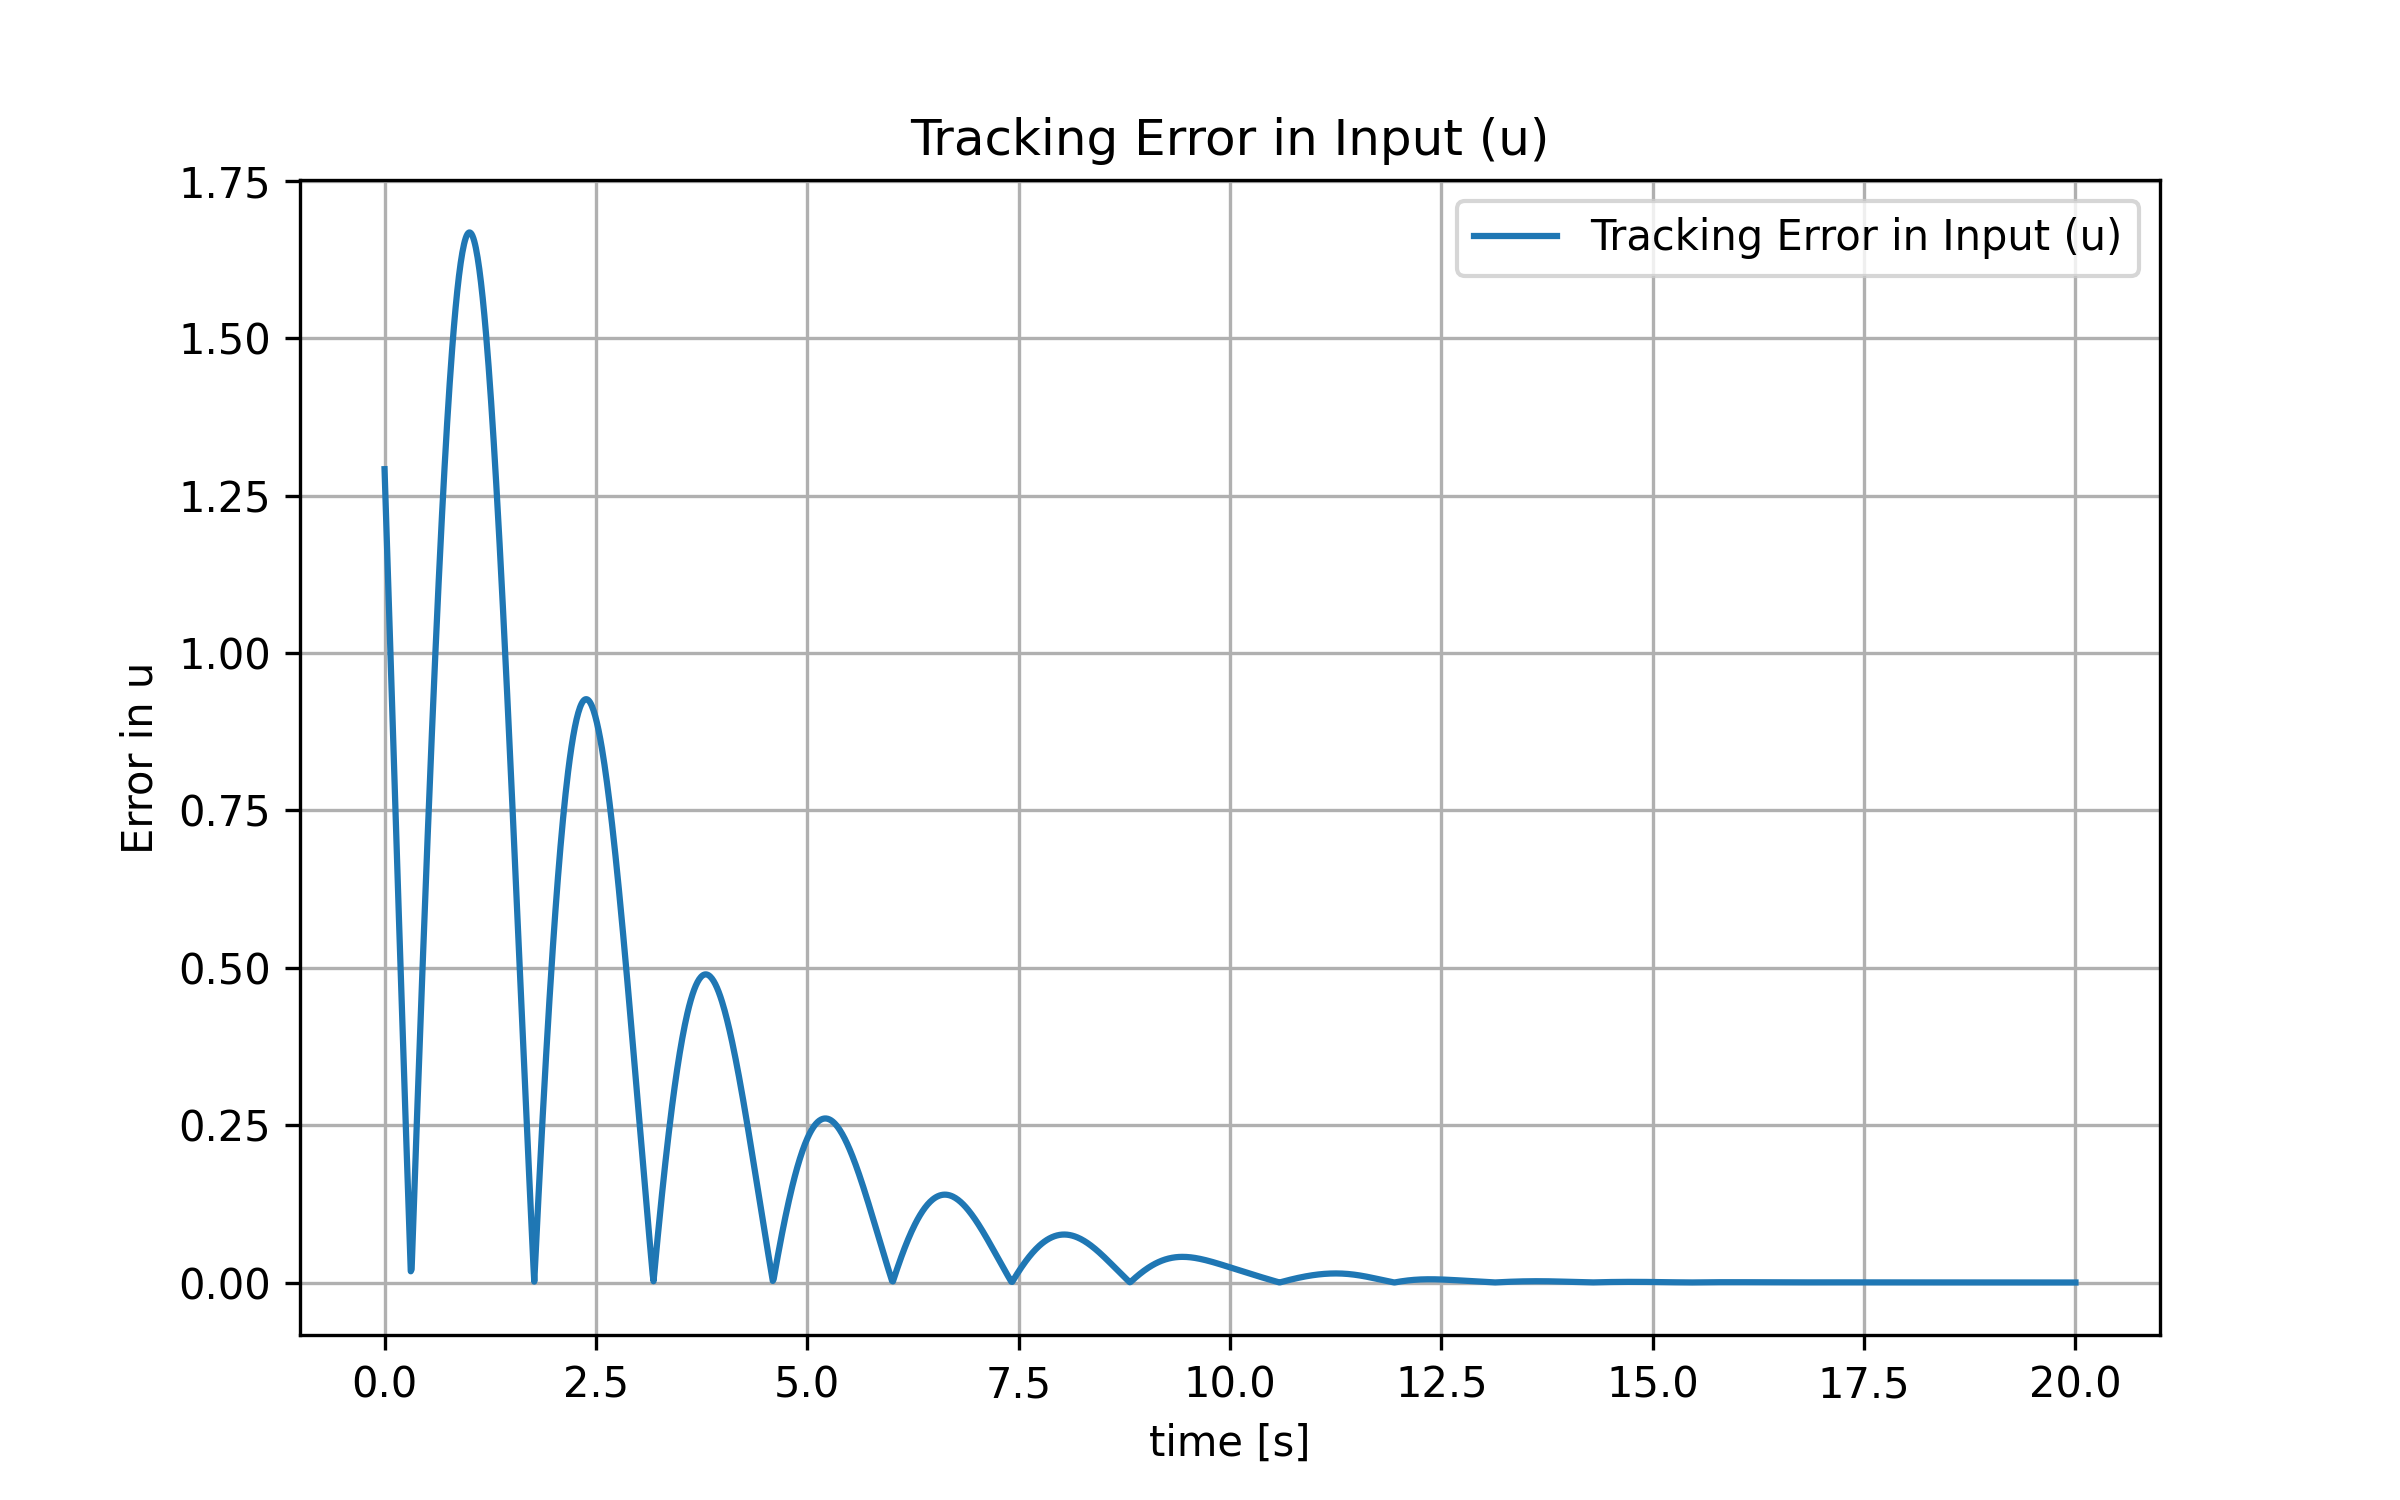
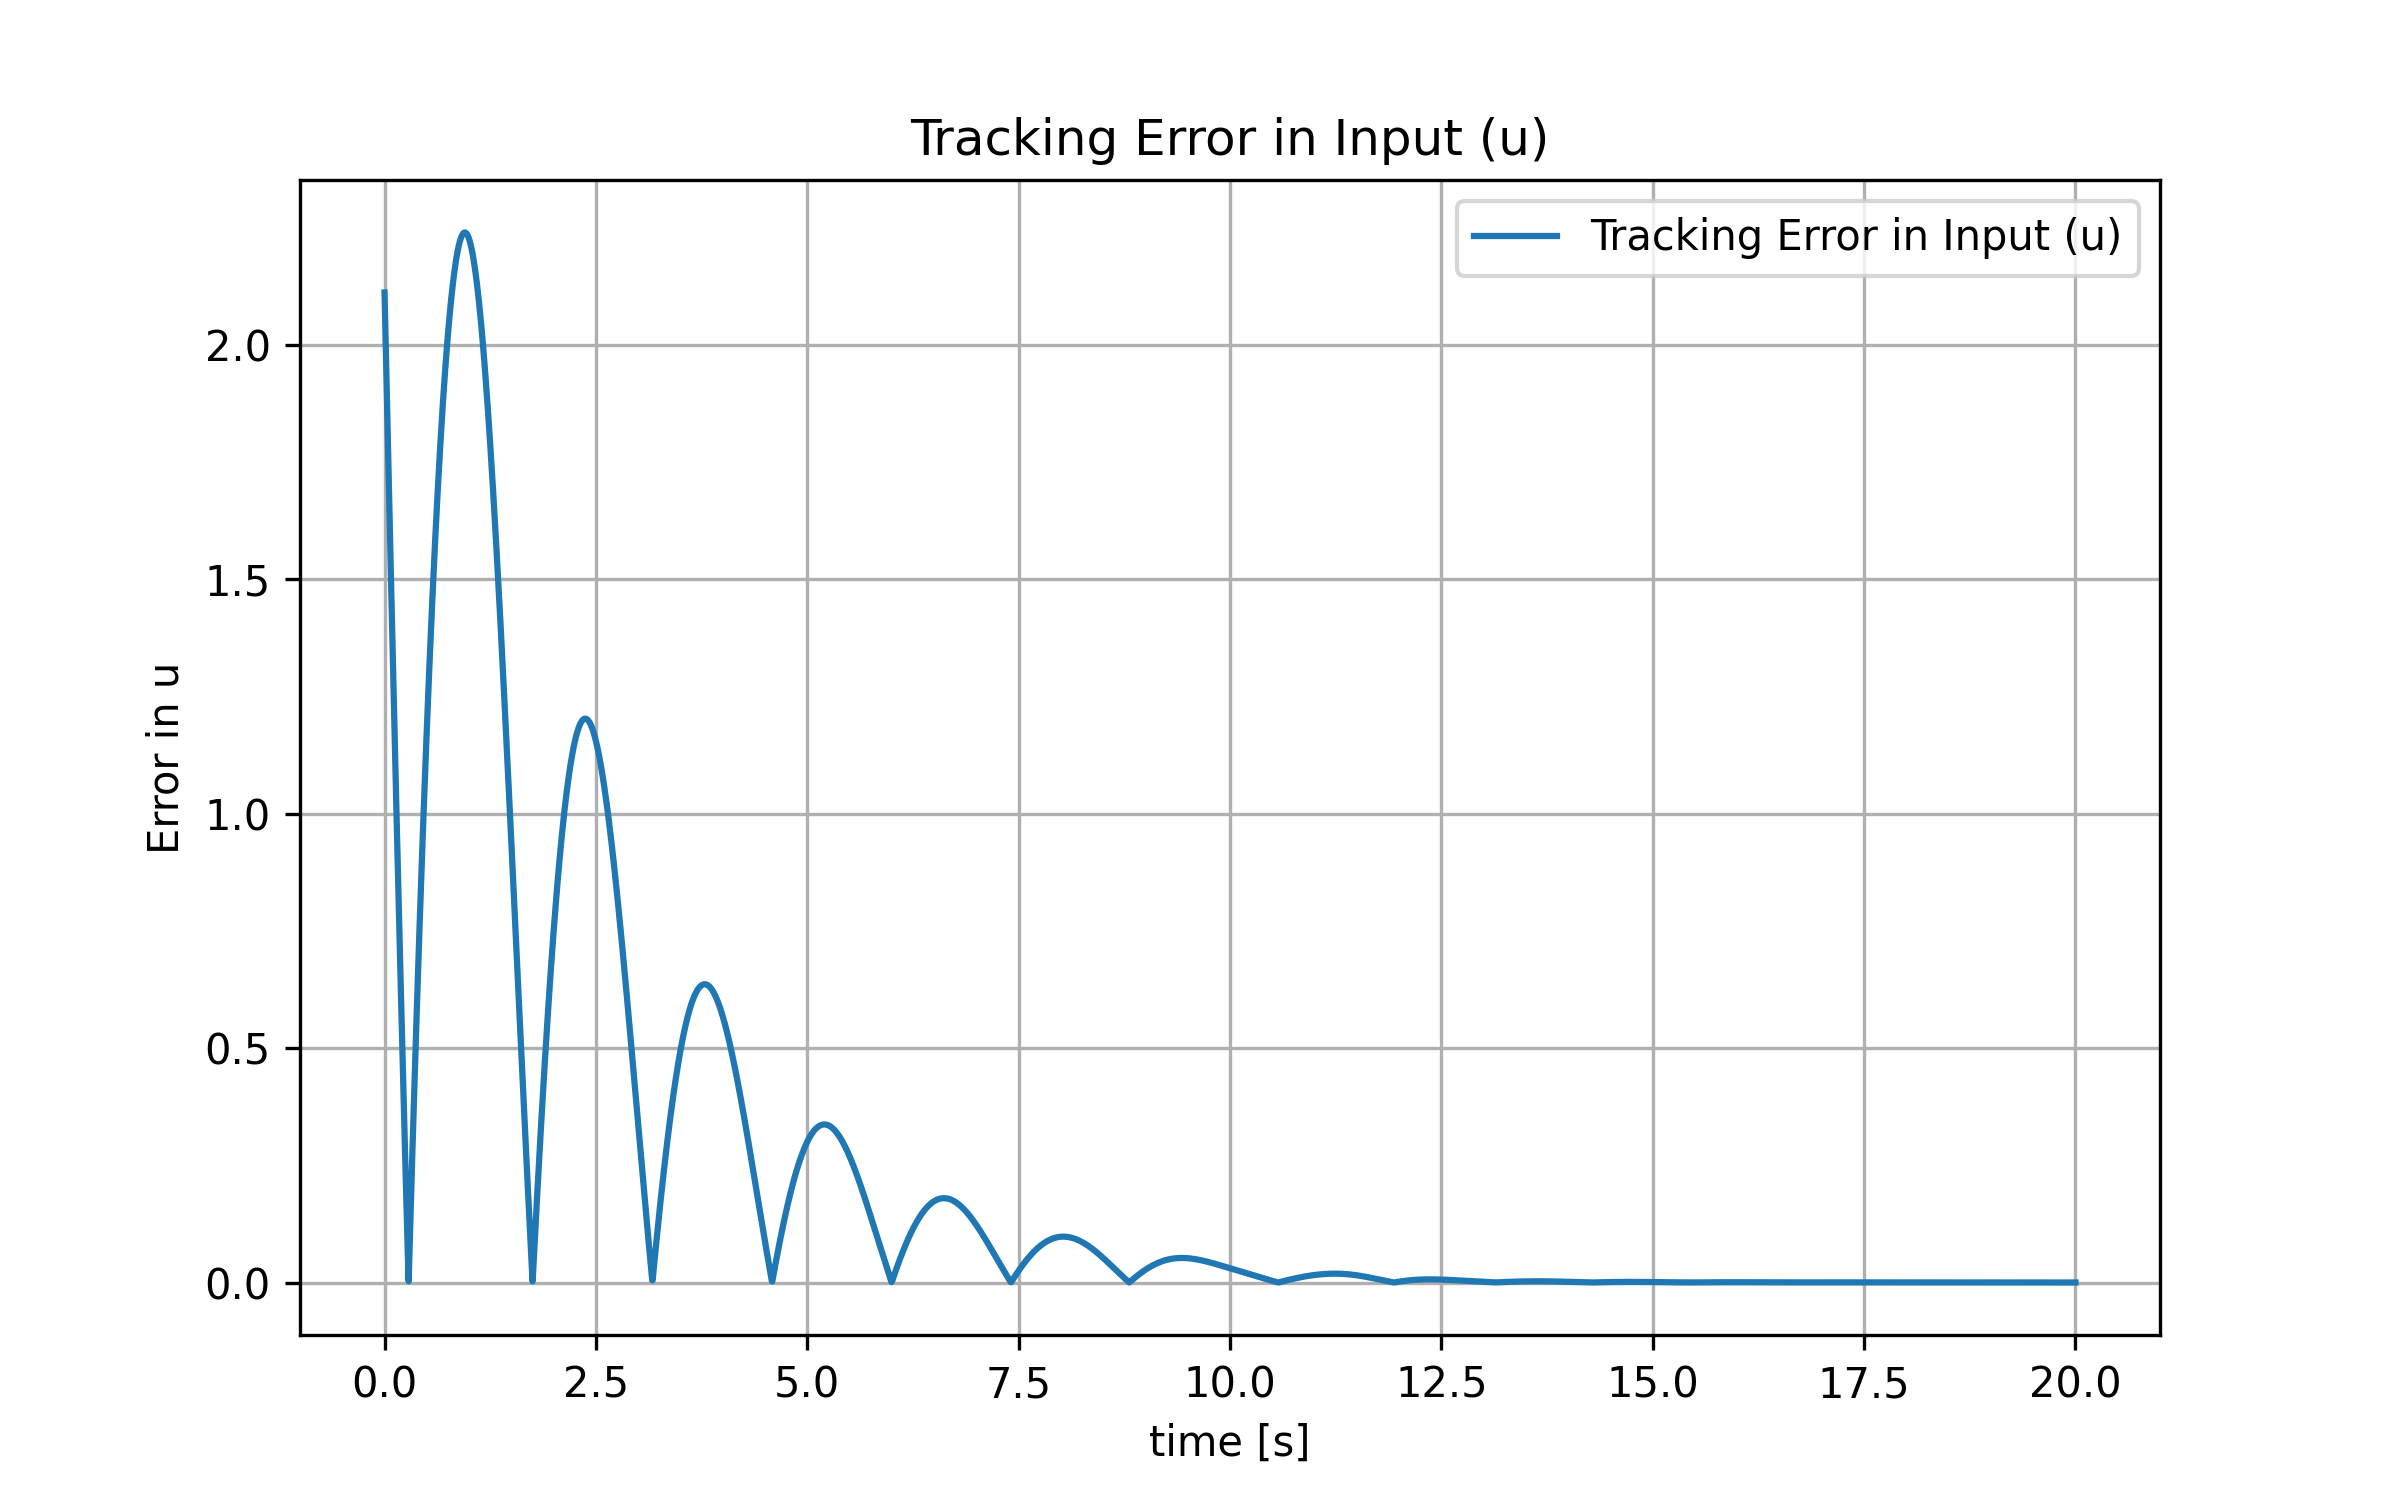
messo random task3

diff --git a/src/reference_curve.py b/src/reference_curve.py
@@ -31,7 +31,7 @@ T_end = int(t_end/dt)
 
 def gen(tf, dt, ns, ni, th1, tau_init, th1_final):
 
-    """
+    r"""
         Generation of reference trajectory as step function from (x_eq1, u_eq1) to (x_eq2, u_eq2)
 
         Args
@@ -74,7 +74,7 @@ def gen(tf, dt, ns, ni, th1, tau_init, th1_final):
 
 def trapezoidal(ns,ni,th1, tau_init, th1_final):
 
-    """
+    r"""
         Generation of a (T_end - T_init)s trapezoidal trajectory w/ (x_eq1, u_eq1) as initial point
         and (x_eq2, u_eq2) as final point
 
@@ -164,7 +164,7 @@ def trapezoidal(ns,ni,th1, tau_init, th1_final):
 
 def gen_smooth(tf, dt, ns, ni, th1, tau_init, th1_final):
 
-    """
+    r"""
         Generation of reference trajectory from (x_eq1, u_eq1) to (x_eq2, u_eq2).
         The smooth transition between the two equilibria is made by using a trapezoidal trajectory
 

diff --git a/main_task3.py b/main_task3.py
@@ -87,8 +87,10 @@ qq_Terminal = np.zeros(ns)
 # Solve the LQR problem
 KK = ltv_LQR(AA_t, BBinch_t, QQreg, RRreg, SSreg, QQreg_final, T_horizon, np.zeros((ns)), qq_reg, rr_reg, qq_Terminal)[0]
 
-# Defining the input perturbation 
-initial_perturbation = 0.25
+# Defining the input perturbation for each state
+initial_perturbation = np.random.uniform(0, 0.5, 4) # Syntax: uniform(start, end, num_elem)
+#initial_perturbation = 0.25
+print(f"The initial perturbation on each state is:\n{initial_perturbation}")
 
 xx0_pert = xx_opt_traj[:,0].copy() + initial_perturbation
 

diff --git a/src/equilibrium.py b/src/equilibrium.py
@@ -13,7 +13,7 @@ import dynamics as dyn
 
 def eq_gen(th1, tau_init, th1_final):
 
-    """
+    r"""
         Computation of equilibrium configurations (x_eq1, u_eq1) and (x_eq2, u_eq2)
 
         Args
@@ -67,7 +67,7 @@ def eq_gen(th1, tau_init, th1_final):
 
     def inv_dyn_tau (th1,th2):
 
-        """
+        r"""
             Desired torque for equilibrium point 2
 
             Args

diff --git a/src/ltv_solver_LQR.py b/src/ltv_solver_LQR.py
@@ -7,7 +7,7 @@ import cvxpy as cp
 
 def ltv_LQR(AAin, BBin, QQin, RRin, SSin, QQfin, TT, x0, qqin = None, rrin = None, qqfin = None):
 
-  """
+  r"""
 	LQR for LTV system with (time-varying) affine cost
 	
   Args
